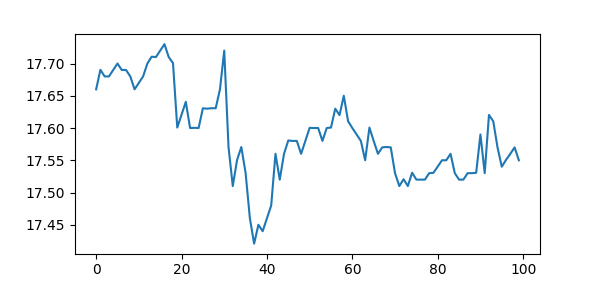
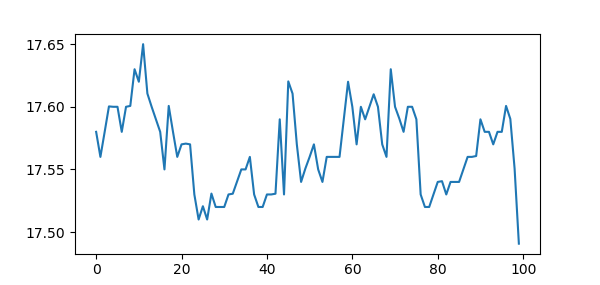
Atualização automatica de grafico pronta

diff --git a/V1.0/main.py b/V1.0/main.py
@@ -10,19 +10,25 @@ from request_http_multiThread3_WORKING_COMPACT import *
 root = None
 rootTroca = None
 
+abev3 = itub4 = mglu3 = petr4 = "sem id"
+
 class Program():
     def __init__(self,master):
         self.root = root.geometry("1280x720"), root.resizable(width=False, height=False)
         self.screen()
 
     def screen(self):
+        global abev3,itub4,mglu3,petr4
         # frame 0 = top-left
         # frame 1 = top-right
         # frame 2 = botton-left
         # frame 3 = botton-right
 
         root.configure(background="white")
-        self.atualizaGrafico()
+        self.atualizaGraficoABEV3(abev3)
+        self.atualizaGraficoPETR4(itub4)
+        self.atualizaGraficoITUB4(mglu3)
+        self.atualizaGraficoMGLU3(petr4)
         # load1 = Image.open("images/ABEV3.png")
         # load2 = Image.open("images/ITUB4.png")
         # load3 = Image.open("images/MGLU3.png")
@@ -91,11 +97,8 @@ class Program():
         tk.Radiobutton(root, text="Volume                         ", padx=0, variable=metrITUB4, value=2, bg="white").place(x=672, y=618)
         tk.Radiobutton(root, text="Banda de Bollinger       ", padx=0, variable=metrITUB4, value=3, bg="white").place(x=672,y=640)
         tk.Radiobutton(root, text="Fechamento                  ", padx=0, variable=metrITUB4, value=4, bg="white").place(x=672,y=662)
-        tk.Radiobutton(root, text="Sem indicador               ", padx=0,command=atualizaGraficoABEV3("sem id"),variable=metrITUB4, value=5,bg="white").place(x=672, y=684)
+        tk.Radiobutton(root, text="Sem indicador               ", padx=0,variable=metrITUB4, value=5,bg="white").place(x=672, y=684)
 
-        def estado(self,metrica):
-            if metrica == "BB":
-                a = "BBa"
         buyABEV = tk.Button(root, text="COMPRAR ABEV3", width=15, height=0).place(x=870, y=566)
         sellABEV = tk.Button(root, text="VENDER ABEV3", width=15, height=0).place(x=870, y=600)
 
@@ -110,16 +113,21 @@ class Program():
 
 
     def atualizaGraficoABEV3(self,metrica):
+        global abev3
         if metrica == "sem id":
             abev3 = "sem id"
             load = Image.open("images/ABEV3.png")
-        elif metrica == "bb":
+        elif metrica == "boolinger":
+            abev3 = "boolinger"
             load = Image.open("images/ABEV3.png")
         elif metrica == "volume":
+            abev3 = "volume"
             load = Image.open("images/ABEV3.png")
         elif metrica == "fechamento":
+            abev3 = "fechamento"
             load = Image.open("images/ABEV3.png")
-        elif metrica == "mm":
+        elif metrica == "media":
+            abev3 = "media"
             load = Image.open("images/ABEV3.png")
 
         render = ImageTk.PhotoImage(load)
@@ -128,21 +136,66 @@ class Program():
         graph1.place(x=39, y=-25)
 
     def atualizaGraficoITUB4(self, metrica):
-        load2 = Image.open("images/ITUB4.png")
+        global itub4
+        if metrica == "sem id":
+            itub4 = "sem id"
+            load2 = Image.open("images/ITUB4.png")
+        elif metrica == "boolinger":
+            itub4 = "boolinger"
+            load2 = Image.open("images/ITUB4.png")
+        elif metrica == "volume":
+            itub4 = "volume"
+            load2 = Image.open("images/ITUB4.png")
+        elif metrica == "fechamento":
+            itub4 = "fechamento"
+            load2 = Image.open("images/ITUB4.png")
+        elif metrica == "media":
+            itub4 = "media"
+            load2 = Image.open("images/ITUB4.png")
         render = ImageTk.PhotoImage(load2)
         graph1 = Label(root, image=render)
         graph1.image = render
         graph1.place(x=639, y=-25)
 
     def atualizaGraficoMGLU3(self, metrica):
-        load3 = Image.open("images/MGLU3.png")
+        global mglu3
+        if metrica == "sem id":
+            mglu3 = "sem id"
+            load3 = Image.open("images/MGLU3.png")
+        elif metrica == "boolinger":
+            mglu3 = "boolinger"
+            load3 = Image.open("images/MGLU3.png")
+        elif metrica == "volume":
+            mglu3 = "volume"
+            load3 = Image.open("images/MGLU3.png")
+        elif metrica == "fechamento":
+            mglu3 = "fechamento"
+            load3 = Image.open("images/MGLU3.png")
+        elif metrica == "media":
+            mglu3 = "media"
+            load3 = Image.open("images/MGLU3.png")
         render = ImageTk.PhotoImage(load3)
         graph1 = Label(root, image=render)
         graph1.image = render
         graph1.place(x=39, y=261)
 
     def atualizaGraficoPETR4(self, metrica):
-        load4 = Image.open("images/PETR4.png")
+        global petr4
+        if metrica == "sem id":
+            petr4 = "sem id"
+            load4 = Image.open("images/PETR4.png")
+        elif metrica == "bb":
+            petr4 = "boolinger"
+            load4 = Image.open("images/PETR4.png")
+        elif metrica == "volume":
+            petr4 = "volume"
+            load4 = Image.open("images/PETR4.png")
+        elif metrica == "fechamento":
+            petr4 = "fechamento"
+            load4 = Image.open("images/PETR4.png")
+        elif metrica == "media":
+            petr4 = "media"
+            load4 = Image.open("images/PETR4.png")
         render = ImageTk.PhotoImage(load4)
         graph1 = Label(root, image=render)
         graph1.image = render
@@ -153,7 +206,7 @@ def iniciar():
     global rootTroca
     global ABEV3, MGLU3, PETR4, ITUB4
 
-    time.sleep(7)
+    time.sleep(10)
 
     root = tk.Tk()
     Program(root)
@@ -163,13 +216,14 @@ def iniciar():
 
 def atualizaOsTreco():
     global rootTroca
+    global abev3, itub4, mglu3, petr4
 
     while True:
         if rootTroca != None:
             rootTroca.atualizaGraficoABEV3(abev3)
             rootTroca.atualizaGraficoMGLU3(mglu3)
             rootTroca.atualizaGraficoPETR4(petr4)
-            rootTroca.atualizaGraficoITUB4(it)
+            rootTroca.atualizaGraficoITUB4(itub4)
             time.sleep(300)
 
 

diff --git a/V1.0/request_http_multiThread3_WORKING_COMPACT.py b/V1.0/request_http_multiThread3_WORKING_COMPACT.py
@@ -8,7 +8,6 @@ from datetime import datetime
 
 tot = 0
 ABEV3 = MGLU3 = PETR4 = ITUB4 = None
-ABEV3T = MGLU3T = PETR4T = ITUB4T = None
 
 def gerador():
     while True:
@@ -33,6 +32,9 @@ def gerador():
                 timeSeries = data['Time Series (5min)']
                 # END OF DANGER ZONE - WARNING
 
+                open = [float(dado["1. open"]) for dado in timeSeries.values()]
+                open = [float(dado["1. open"]) for dado in timeSeries.values()]
+                open = [float(dado["1. open"]) for dado in timeSeries.values()]
                 open = [float(dado["1. open"]) for dado in timeSeries.values()]
 
                 for u in range(len(open)):
@@ -61,7 +63,6 @@ def gerador():
 
 def atualiza(stonks):
     global ABEV3, MGLU3, PETR4, ITUB4
-    global ABEV3T, MGLU3T, PETR4T, ITUB4T
 
     while True:
         if stonks == "ABEV3":
